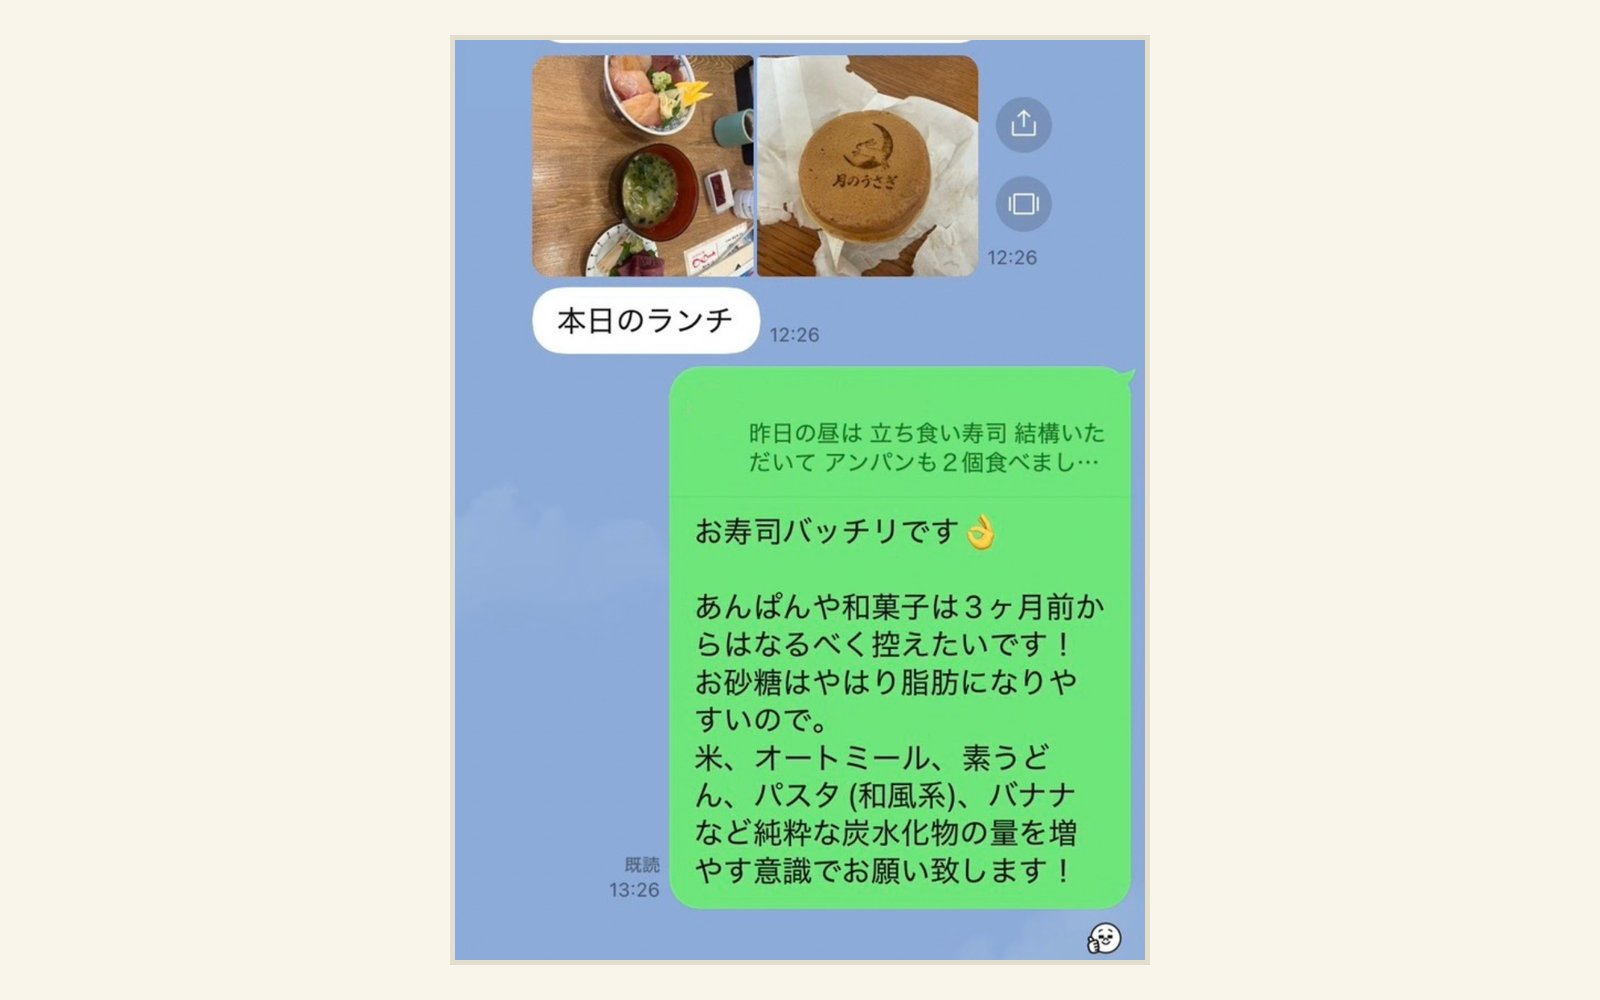
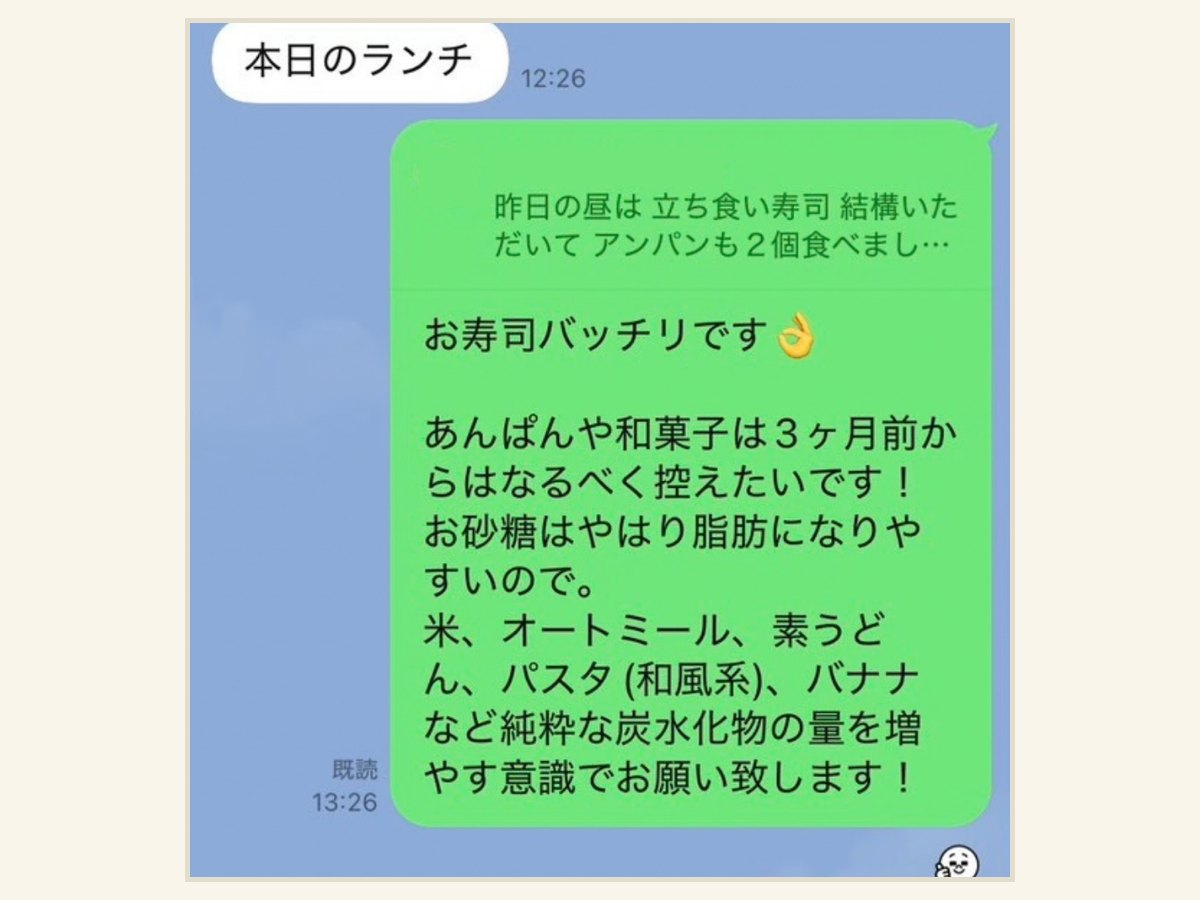
feat: モニターLPの画像を全枠反映

diff --git a/monitor-bulkup.html b/monitor-bulkup.html
@@ -462,6 +462,8 @@ body.tm-lock{overflow:hidden}
 .rc-ph img{position:absolute;inset:0;width:100%;height:100%;object-fit:cover}
 .rc-ph img[src=""],.rc-ph.ph img{display:none}
 .rc-d{font-size:var(--fs);line-height:2.05;margin:20px 26px 26px}
+/* プログラム紹介の写真は、理由カードより縦長にして見せ場を作る */
+.rc-w.tall .rc-ph{aspect-ratio:4/3}
 
 .rc-d b{font-weight:500;color:var(--navy)}
 @media(max-width:600px){
@@ -1085,7 +1087,7 @@ footer a{color:rgba(255,255,255,.7)}
   <p class="rb-n">Re-Comp</p>
   <p class="rb-d">脂肪を落としながら、筋肉を増やす。<br>同時に進めるから、見た目が変わります。</p>
   <p class="s-lead">3つを同時に設計します。どれか一つでも欠けると、身体は変わりません。<br>一人ひとりの骨格・レベル・生活に合わせて組み立てます。</p>
-  <div class="rc-w">
+  <div class="rc-w tall">
     <div class="rc">
       <div class="rc-h">
         <div class="rc-n">01</div>
